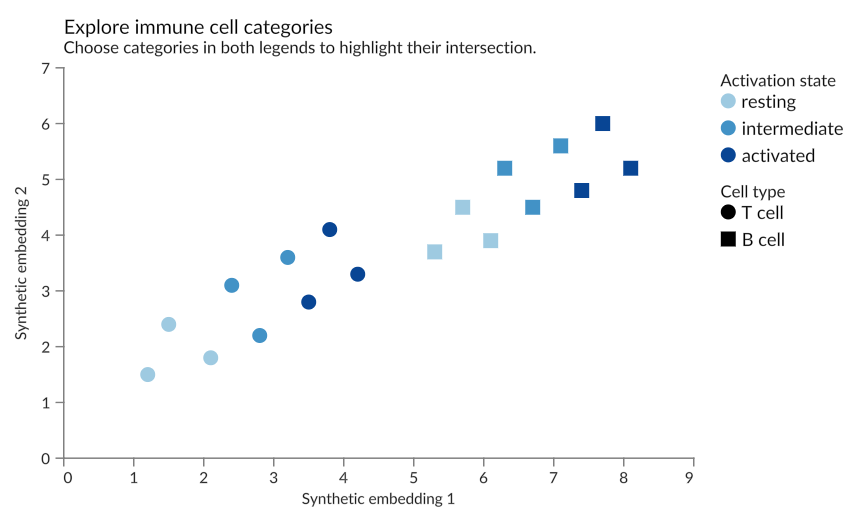
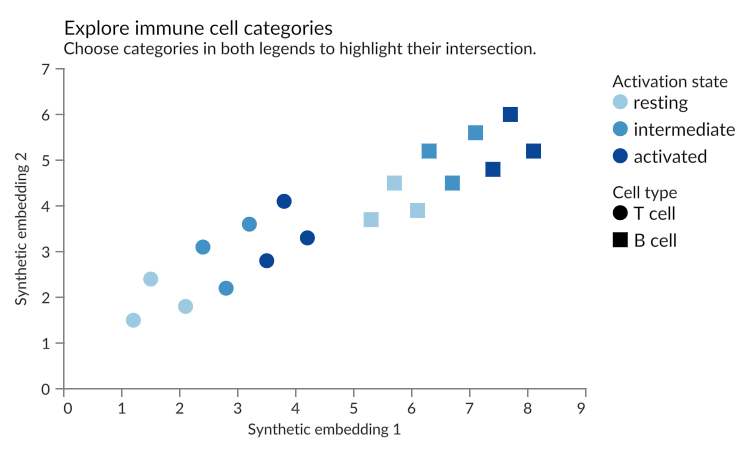
docs: clarify interactive legends and use responsive examples
Keep legend types together and place Vega-Lite compatibility notes in an
admonition. Clarify hover toggling and clearing defaults, let both interactive
examples use container sizing and default tooltips, and refresh the preview.

diff --git a/packages/core/src/spec/parameter.d.ts b/packages/core/src/spec/parameter.d.ts
@@ -328,9 +328,10 @@ export interface BaseSelectionConfig<T extends SelectionType = SelectionType> {
 
     /**
      * A string or object that defines the events that should clear the selection.
-     * Legend-bound point selections have no default clear event.
+     * Set to `false` to disable these events. Legend-bound point selections also
+     * reset on unmodified background clicks, independently of this property.
      *
-     * __Default value:__ `"dblclick"`
+     * __Default value:__ `"dblclick"`; no `clear` event for legend-bound point selections.
      */
     clear?: DomEventType | EventConfig | string | boolean;
 }
@@ -345,13 +346,12 @@ export interface PointSelectionConfig extends BaseSelectionConfig<"point"> {
     encodings?: [CategorySelectionChannel];
 
     /**
-     * Controls whether data values should be toggled (inserted or removed from a point selection)
-     * when clicking with the shift key pressed.
+     * Controls whether input events with Shift pressed add or remove selected values.
      *
-     * - `true` -- additional values can be selected by shift-clicking.
+     * - `true` -- values can be added or removed while holding Shift.
      * - `false` -- only a single value can be selected at a time.
      *
-     * __Default value:__ `true`
+     * __Default value:__ `true` when `on` uses `"click"`, `false` otherwise.
      */
     toggle?: boolean;
 }
@@ -493,8 +493,8 @@ export interface CategorySelectionParameter<C extends CategorySelectionChannel>
     /**
      * Populate this selection by clicking its categorical symbol legend.
      * Plot input is disabled unless `select.on` is explicitly specified.
-     * Empty-background clicks reset all legend-bound selections. Default
-     * double-click clearing is disabled.
+     * Unmodified background clicks reset all legend-bound selections, independently
+     * of `select.clear`. Default double-click clearing is disabled.
      */
     bind?: "legend";
 

diff --git a/docs/grammar/legend.md b/docs/grammar/legend.md
@@ -21,6 +21,34 @@ legend retains the sizes represented by its scale.
 
 These properties can also be set under `config.legend` for all legends.
 
+## Gradient legends
+
+Continuous quantitative color channels create gradient legends. The gradient
+uses the same scale as the plotted data.
+
+EXAMPLE examples/docs/grammar/legend/gradient-legend.json height=300
+
+The ramp fills available space when its direction is parallel to its legend
+region. Otherwise it uses a natural length of 200 pixels. Set
+`gradientLength` for a fixed ramp. The other gradient properties adjust its
+appearance and desired tick density:
+
+```json
+{
+  "legend": {
+    "gradientLength": 160,
+    "gradientThickness": 16,
+    "gradientOpacity": 0.8,
+    "gradientStrokeColor": "#666",
+    "gradientStrokeWidth": 1,
+    "tickCount": 4
+  }
+}
+```
+
+Explicit `values` determine the ticks when provided and take precedence over
+`tickCount`.
+
 ## Interactive legends
 
 Add `bind: "legend"` to a [categorical point selection](parameters.md#categorical-point-selection)
@@ -71,44 +99,17 @@ hover with multi-category legend clicks:
 }
 ```
 
-Hover replaces the selected category; Shift-clicking legend entries toggles
-categories. The explicit `toggle: true` preserves multiple categories for this
-mixed-input configuration. Explicit `select.clear` events and filters apply to
-legend entries and explicitly enabled plot input; `select.clear: false` disables
-those events. The global background reset remains available independently of
-`select.clear`.
+Hovering without Shift replaces the selected category. The explicit
+`toggle: true` enables Shift-clicking legend entries to add or remove categories.
+Explicit `select.clear` events and filters apply to legend entries and explicitly
+enabled plot input; `select.clear: false` disables those events. The global
+background reset remains available independently of `select.clear`.
 
-The `bind: "legend"` form follows Vega-Lite's grammar. Field projections,
-object-valued legend event bindings, and expression-valued toggling are not
-supported. GenomeSpy retains its existing single-value hover default.
+!!! note "Vega-Lite compatibility"
 
-## Gradient legends
-
-Continuous quantitative color channels create gradient legends. The gradient
-uses the same scale as the plotted data.
-
-EXAMPLE examples/docs/grammar/legend/gradient-legend.json height=300
-
-The ramp fills available space when its direction is parallel to its legend
-region. Otherwise it uses a natural length of 200 pixels. Set
-`gradientLength` for a fixed ramp. The other gradient properties adjust its
-appearance and desired tick density:
-
-```json
-{
-  "legend": {
-    "gradientLength": 160,
-    "gradientThickness": 16,
-    "gradientOpacity": 0.8,
-    "gradientStrokeColor": "#666",
-    "gradientStrokeWidth": 1,
-    "tickCount": 4
-  }
-}
-```
-
-Explicit `values` determine the ticks when provided and take precedence over
-`tickCount`.
+    The `bind: "legend"` form follows Vega-Lite's grammar. Field projections,
+    object-valued legend event bindings, and expression-valued toggling are not
+    supported.
 
 ## Configuration
 
